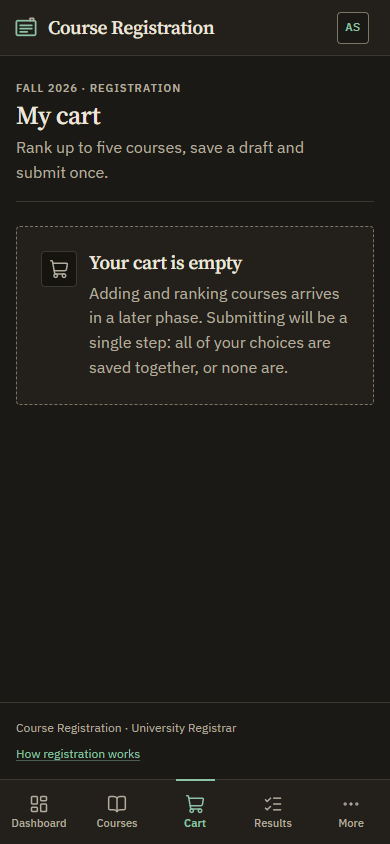
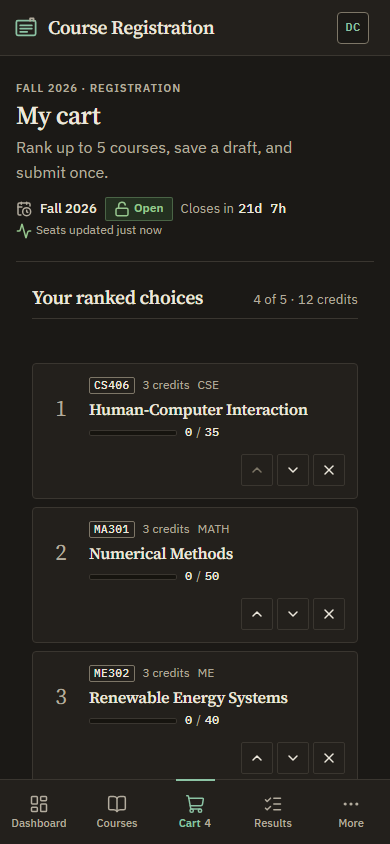
chore: add a dependency-free screenshot script and design fixes
The documentation screenshots needed a repeatable way to capture signed-in
pages. `scripts/screenshot.mjs` drives an already-installed Chrome or Edge
headless over the DevTools Protocol using only what Node provides (fetch,
WebSocket, child_process) — no Playwright, no Puppeteer for a job that
runs a few times per phase. Sessions are set with Network.setCookie using
the same JWT secret the API verifies, so no password is ever typed, and
prefers-color-scheme is emulated for the dark shots.

It waits for the page rather than for readyState: a lazy route's chunk is
compiled on demand by the dev server, so the first attempt photographed
six Suspense fallbacks.

Two fixes the browser review found: the drag handle is hidden below 40rem,
because HTML5 drag-and-drop does not work on touch and the handle would be
a promise the page can't keep (the Move buttons remain); and the receipt's
ranked list keeps its numbers, which a flex item drops in Chromium.

diff --git a/frontend/src/pages/student/cart/CartPage.module.css b/frontend/src/pages/student/cart/CartPage.module.css
@@ -333,11 +333,14 @@
   font-size: var(--text-sm);
 }
 
+/* `display: list-item` keeps the marker: the rank IS the content here, and a
+   flex item drops its marker in Chromium. */
 .receiptList li {
-  display: flex;
-  flex-wrap: wrap;
-  align-items: baseline;
-  gap: var(--space-2);
+  display: list-item;
+}
+
+.receiptList li > * {
+  margin-right: var(--space-2);
 }
 
 .receiptName {
@@ -374,5 +377,11 @@
   .itemActions {
     grid-column: 2;
     justify-content: end;
+  }
+
+  /* HTML5 drag-and-drop does not work on touch, so the handle would be a
+     promise the page can't keep. The Move buttons remain. */
+  .grip {
+    display: none;
   }
 }
